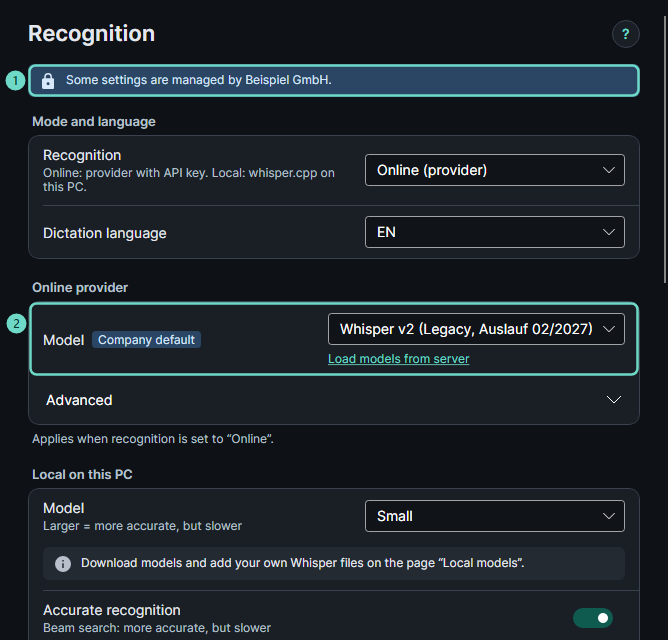
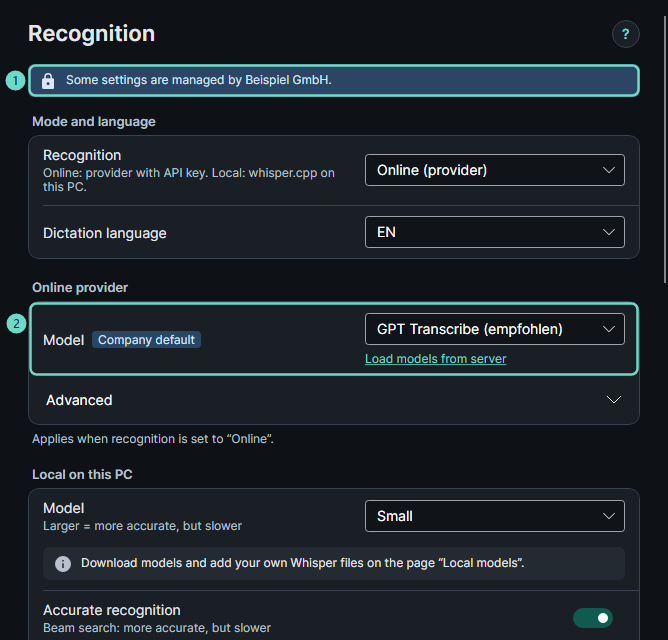
docs(help): Erkennungssprache „Deutsch + Englisch“, Beispiel-Modelle nach W2-PFIX (W2-HELP)
Hilfe-Abschnitt Erkennung nennt „Deutsch + Englisch“ (DE+EN). Screenshot-Szenen nutzen gpt-transcribe statt des
ausgelaufenen whisper-1; managed.png und history.png neu erzeugt.

Claude-Session: https://claude.ai/code/session_011qRtEi3AonJfC7WtcHt3yU

Changed region(s): [[0.479, 0.5, 0.8982, 0.5938]]

diff --git a/tests/WhisperLoom.App.Tests/Help/HelpShotScenes.cs b/tests/WhisperLoom.App.Tests/Help/HelpShotScenes.cs
@@ -85,13 +85,13 @@ internal static class HelpShotScenes
     private static void Managed(ControllerFixture f)
     {
         f.Controller.Settings.Management.TenantName = "Beispiel GmbH";
-        f.Controller.Settings.Stt.Model = "whisper-1";
+        f.Controller.Settings.Stt.Model = "gpt-transcribe";
         f.Controller.Policy = new Core.Settings.PolicySettings
         {
             Locked = ["stt.providerId", "secrets.stt", "stt.baseUrl", "stt.readTimeoutSec"],
             Defaults = new Dictionary<string, System.Text.Json.JsonElement>
             {
-                ["stt.model"] = System.Text.Json.JsonSerializer.SerializeToElement("whisper-1"),
+                ["stt.model"] = System.Text.Json.JsonSerializer.SerializeToElement("gpt-transcribe"),
             },
         };
     }
@@ -218,7 +218,7 @@ internal static class HelpShotScenes
         {
             var at = now.AddHours(-hours);
             await f.History.AddAsync(new HistoryEntry(FileHistoryStore.NewId(at), at, lang, 6200, raw, text,
-                new Refinement(RefineModes.FromKey(stage)), "OpenAI · whisper-1", stage == "off" ? null : "gpt-5-mini"), CancellationToken.None);
+                new Refinement(RefineModes.FromKey(stage)), "OpenAI · gpt-transcribe", stage == "off" ? null : "gpt-6-luna"), CancellationToken.None);
         }
         var actions = new HistoryActions(_ => Task.FromResult(true), _ => Task.FromResult("Pasted"),
             (id, stage) => f.Controller.ReprocessVersionAsync(id, stage), f.Controller.EditHistoryAsync,
